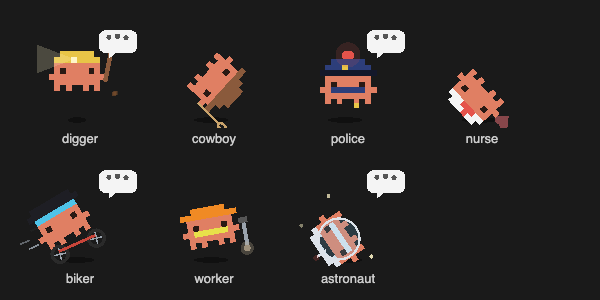
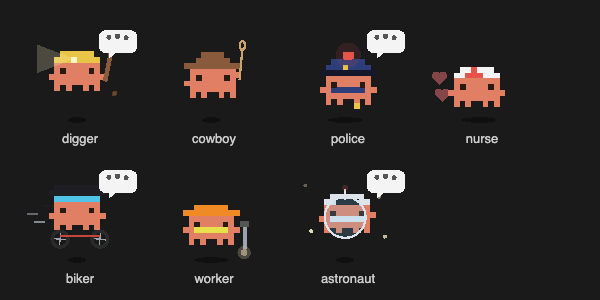
agents-panel: no rotating or flipping characters
Replace spin, backflip, wheelie and shake tricks and the tilting sways
with straight moves: jump, double jump, dance, side shuffle, squat and
stomp. Only props (pickaxe, wheels, lasso) still turn.

diff --git a/mods/agents-panel/hooks/register.tsx b/mods/agents-panel/hooks/register.tsx
@@ -180,7 +180,7 @@ function characterParts(c: Character, moving: boolean): Part {
           `<line x1="13" y1="8" x2="13.5" y2="2.5" stroke="#C9A36B" stroke-width="0.4"/>` +
           `<ellipse cx="13.5" cy="2" rx="2.4" ry="0.8" fill="none" stroke="#C9A36B" stroke-width="0.45">` +
           `${a('<animate attributeName="rx" values="2.4;0.4;2.4" dur="0.6s" repeatCount="indefinite"/>')}</ellipse>`,
-        body: a(move('0 0;0 -0.8;0 0', 0.5) + spin('-3 8 10;3 8 10;-3 8 10', 1, ' additive="sum"')),
+        body: a(move('0 0;0 -0.8;0 0', 0.5) + move('-0.3 0;0.3 0;-0.3 0', 1, ' additive="sum"')),
         arm: a(move('0 0;0 -1.5;0 0', 0.6)),
       }
     case 'police':
@@ -205,7 +205,7 @@ function characterParts(c: Character, moving: boolean): Part {
           [0, 1].map(i =>
             `<g opacity="0">${a(move(`0 0;${-0.5 + i} -6`, 2, ` begin="${i}s"`))}${a(fade('0;1;0', 2, ` begin="${i}s"`))}` +
             `<path d="M1.5 12 l-1.2 -1.2 a0.7 0.7 0 0 1 1.2 -0.9 a0.7 0.7 0 0 1 1.2 0.9 z" fill="#F07178"/></g>`).join(''),
-        body: a(spin('-4 8 10;4 8 10;-4 8 10', 1.6)),
+        body: a(move('-0.4 0;0.4 0;-0.4 0', 1.6)),
         arm: '',
       }
     case 'biker':
@@ -220,7 +220,7 @@ function characterParts(c: Character, moving: boolean): Part {
           `<rect x="5" y="11.8" width="7" height="0.5" fill="#C8453A"/>` +
           a([9.6, 11, 12.4].map((y, i) =>
             `<rect x="0" y="${y - 3}" width="2" height="0.3" fill="#9AA3AD">${move('2 0;-2 0', 0.5, ` begin="${i * 0.15}s"`)}${fade('0;1;0', 0.5, ` begin="${i * 0.15}s"`)}</rect>`).join('')),
-        body: a(spin('-8 8 12;-5 8 12;-8 8 12', 0.4) + move('0 0;0 -0.3;0 0', 0.3, ' additive="sum"')),
+        body: a(move('0 0;0 -0.3;0 0', 0.3)),
         arm: '',
       }
     case 'worker':
@@ -247,7 +247,7 @@ function characterParts(c: Character, moving: boolean): Part {
           `<rect x="7.8" y="2.6" width="0.4" height="2" fill="#DDE3EA"/><circle cx="8" cy="2.4" r="0.5" fill="#E5534B">${a(fade('1;0.2;1', 1))}</circle>` +
           [[1, 2], [14, 4], [2, 10], [15, 11]].map(([x, y], i) =>
             `<circle cx="${x}" cy="${y}" r="0.35" fill="#FFF6C8">${a(fade('0.2;1;0.2', 1.4, ` begin="${i * 0.35}s"`))}</circle>`).join(''),
-        body: a(move('0 0;0 -1.2;0 0', 2.4) + spin('-6 8 9;6 8 9;-6 8 9', 3.2, ' additive="sum"')),
+        body: a(move('0 0;0 -1.2;0 0', 2.4) + move('-0.4 0;0.4 0;-0.4 0', 3.2, ' additive="sum"')),
         arm: a(move('0 0;0 -1;0 0', 2.4)),
       }
   }
@@ -271,15 +271,15 @@ function eventSvg(kind: 'commit' | 'push') {
 // Tricks play in two one-second windows of a 6 s loop, on top of each character's own move.
 const TRICK_LOOP = 6
 const TRICK_WINDOWS = [[1, 2], [4, 5]] as const
-type Trick = 'jump' | 'spin' | 'backflip' | 'dance' | 'wheelie' | 'shake'
+type Trick = 'jump' | 'doublejump' | 'dance' | 'shuffle' | 'squat' | 'stomp'
 const TRICKS: Record<Character, [Trick, Trick]> = {
   digger: ['jump', 'dance'],
-  cowboy: ['backflip', 'jump'],
-  police: ['dance', 'spin'],
-  nurse: ['spin', 'jump'],
-  biker: ['wheelie', 'jump'],
-  worker: ['shake', 'jump'],
-  astronaut: ['spin', 'backflip'],
+  cowboy: ['doublejump', 'shuffle'],
+  police: ['dance', 'squat'],
+  nurse: ['shuffle', 'jump'],
+  biker: ['jump', 'stomp'],
+  worker: ['stomp', 'jump'],
+  astronaut: ['doublejump', 'squat'],
 }
 
 // One animateTransform that rests at `rest` outside its window and plays `values` inside it.
@@ -292,21 +292,21 @@ function inWindow(type: string, rest: string, values: string[], [from, to]: read
   return `<animateTransform attributeName="transform" type="${type}" values="${all}" keyTimes="${keyTimes}" dur="${TRICK_LOOP}s" repeatCount="indefinite" additive="sum"/>`
 }
 
+// Every trick moves the character in straight lines only: no rotating or flipping.
 function trickSvg(trick: Trick, w: readonly [number, number]) {
   switch (trick) {
     case 'jump':
       return inWindow('translate', '0 0', ['0 -2.2', '0 -3.2', '0 -2.2', '0 0.3'], w)
-    case 'spin':
-      return inWindow('rotate', '0 8 9', ['90 8 9', '180 8 9', '270 8 9', '360 8 9'], w)
-    case 'backflip':
-      return inWindow('translate', '0 0', ['0 -2.5', '0 -3.5', '0 -2.5', '0 0'], w) +
-        inWindow('rotate', '0 8 9', ['-90 8 9', '-180 8 9', '-270 8 9', '-360 8 9'], w)
+    case 'doublejump':
+      return inWindow('translate', '0 0', ['0 -2.4', '0 0.2', '0 -3', '0 0.3'], w)
     case 'dance':
       return inWindow('translate', '0 0', ['-1.2 0', '0 -0.8', '1.2 0', '0 -0.8', '-1.2 0', '0 0'], w)
-    case 'wheelie':
-      return inWindow('rotate', '0 5 12.6', ['-12 5 12.6', '-24 5 12.6', '-24 5 12.6', '-10 5 12.6'], w)
-    case 'shake':
-      return inWindow('rotate', '0 8 9', ['-12 8 9', '12 8 9', '-12 8 9', '12 8 9', '-6 8 9'], w)
+    case 'shuffle':
+      return inWindow('translate', '0 0', ['-1.5 0', '1.5 0', '-1.5 0', '1.5 0'], w)
+    case 'squat':
+      return inWindow('translate', '0 0', ['0 0.8', '0 0.8', '0 -1.2', '0 0'], w)
+    case 'stomp':
+      return inWindow('translate', '0 0', ['0 -0.7', '0 0', '0 -0.7', '0 0', '0 -0.7', '0 0'], w)
   }
 }
 
@@ -335,7 +335,7 @@ function avatarSvg(index: number, sprites: Sprites, moving: boolean, event?: 'co
     `<g>${part.arm}${body.R ?? ''}</g>${body.F ?? ''}${body.G ?? ''}${Object.values(hat).join('')}</g></g>`
   const [first, second] = TRICKS[c]
   const tricks = live ? trickSvg(first, TRICK_WINDOWS[0]) + trickSvg(second, TRICK_WINDOWS[1]) : ''
-  const airborne = (t: Trick) => t === 'jump' || t === 'backflip'
+  const airborne = (t: Trick) => t === 'jump' || t === 'doublejump'
   const shadowShrink = live
     ? TRICK_WINDOWS.map((w, i) => {
         const t = i === 0 ? first : second

diff --git a/mods/agents-panel/tests/pane.test.tsx b/mods/agents-panel/tests/pane.test.tsx
@@ -62,6 +62,7 @@ test('each agent in a run is a different animated character', async ($, on) => {
   const source = String((avatars[0]?.props as { source?: string }).source)
   expect(source.match(/additive="sum"/g)?.length).toBeGreaterThanOrEqual(2)
   expect(source).toContain('<ellipse')
+  expect(source).not.toMatch(/type="rotate"[^>]*additive="sum"/)
   expect(source).toContain('fill="#F4F4F4"')
   await ui.unmount()
 })

diff --git a/README.md b/README.md
@@ -93,28 +93,30 @@ Each agent in a run is a different character, and each one moves while its agent
 | digger | miner's helmet with a lamp | lamp beam flickers, pickaxe swings, dirt flies |
 | cowboy | wide-brim hat | lasso spins overhead, rides at a bounce, waves |
 | police | cap and gold badge | red/blue siren flashes and glows, arm directs traffic |
-| nurse | white cap with a red cross | sways while hearts float up and fade |
-| biker | helmet and visor | leans on spinning wheels, speed lines stream past |
+| nurse | white cap with a red cross | sways side to side while hearts float up and fade |
+| biker | helmet and visor | bounces on spinning wheels, speed lines stream past |
 | worker | hard hat and hi-vis vest | jackhammer shakes the whole sprite, dust puffs |
-| astronaut | helmet bubble and antenna | floats and tilts, antenna blinks, stars twinkle |
+| astronaut | helmet bubble and antenna | floats and drifts, antenna blinks, stars twinkle |
 
 On top of its own move, every character performs two tricks in a 6-second loop:
 
 | Character | Tricks |
 |---|---|
 | digger | jump, then dance |
-| cowboy | backflip, then jump |
-| police | dance, then spin |
-| nurse | spin, then jump |
-| biker | wheelie, then jump |
-| worker | shake, then jump |
-| astronaut | spin, then backflip |
+| cowboy | double jump, then side shuffle |
+| police | dance, then squat |
+| nurse | side shuffle, then jump |
+| biker | jump, then stomp |
+| worker | stomp, then jump |
+| astronaut | double jump, then squat |
+
+The characters themselves never rotate or flip; only props such as the pickaxe and the bike's wheels turn.
 
 They also blink and breathe, out of step with each other, and a shadow at their feet shrinks while they're
 in the air. While an agent is waiting on the model, with no tool running, a thought bubble with bouncing
 dots floats beside it.
 
-![Mid-trick: jumping, backflipping, spinning, a wheelie and the thought bubbles](docs/screenshots/agents-panel-tricks.png)
+![Mid-trick: jumping, shuffling and squatting, with the thought bubbles](docs/screenshots/agents-panel-tricks.png)
 
 *One frame 1.5 seconds into the loop, rendered from the mod's own SVGs.*
 
